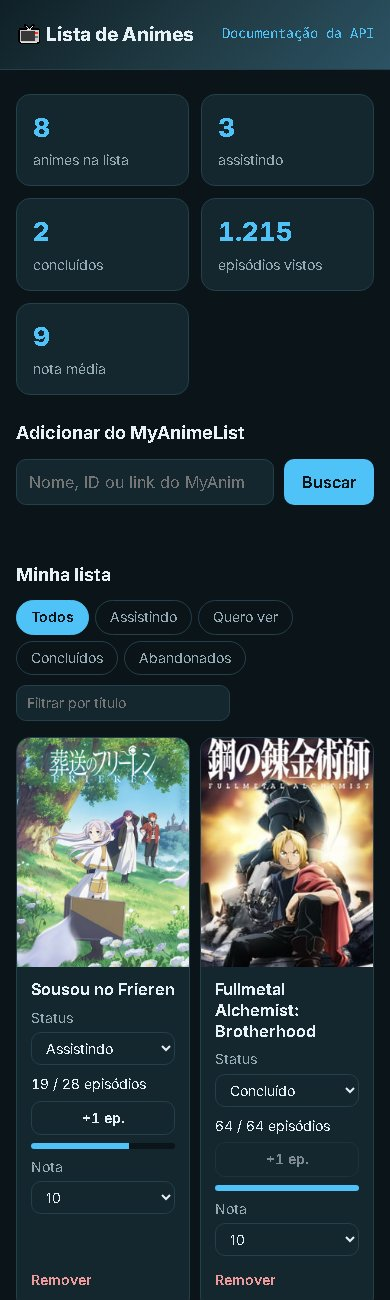
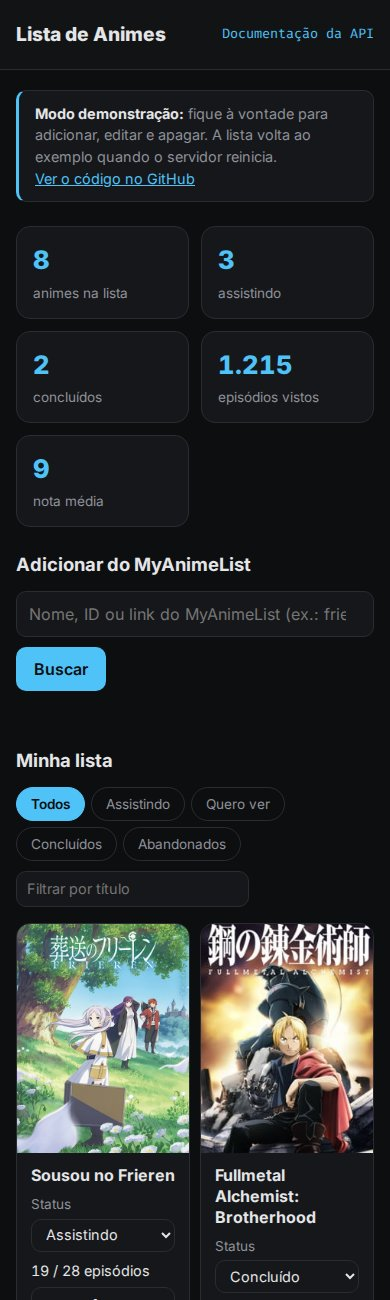
Refaz o GIF e o print do celular com o visual novo e tira os emojis do README

diff --git a/README.md b/README.md
@@ -1,10 +1,10 @@
-# 📺 Lista de Animes
+# Lista de Animes
 
 [![Testes](https://github.com/Lakes777/lista-animes/actions/workflows/testes.yml/badge.svg)](https://github.com/Lakes777/lista-animes/actions/workflows/testes.yml)
 
 API REST em Python com **FastAPI** para organizar sua lista de animes: o que você quer ver, o que está vendo e o que já viu. Os dados dos animes (título, episódios e capa) vêm da [Jikan](https://jikan.moe), uma API gratuita com o catálogo do **MyAnimeList**. A própria API também entrega um front em HTML, CSS e JavaScript puros.
 
-### 🌐 [Ver ao vivo](https://lista-animes-b8ql.onrender.com)
+### [Ver ao vivo](https://lista-animes-b8ql.onrender.com)
 
 > Versão de demonstração no plano gratuito do Render: qualquer pessoa pode testar, e a lista volta ao exemplo quando o servidor reinicia. Depois de 15 minutos sem visitas o servidor dorme, e a primeira visita pode levar cerca de 1 minuto para carregar.
 
@@ -69,7 +69,7 @@ A lista fica salva em `animes.db` (SQLite), na pasta de onde o comando foi rodad
 LISTA_ANIMES_BANCO=outra-lista.db python -m lista_animes
 ```
 
-> 💡 A busca **por nome** da Jikan consulta o MyAnimeList na hora e às vezes fica fora do ar. A busca **por ID ou link** (ex.: `myanimelist.net/anime/52991`) usa uma cópia guardada pela Jikan e costuma funcionar mesmo assim.
+> **Dica:** a busca **por nome** da Jikan consulta o MyAnimeList na hora e às vezes fica fora do ar. A busca **por ID ou link** (ex.: `myanimelist.net/anime/52991`) usa uma cópia guardada pela Jikan e costuma funcionar mesmo assim.
 
 ## Publicação online
 
